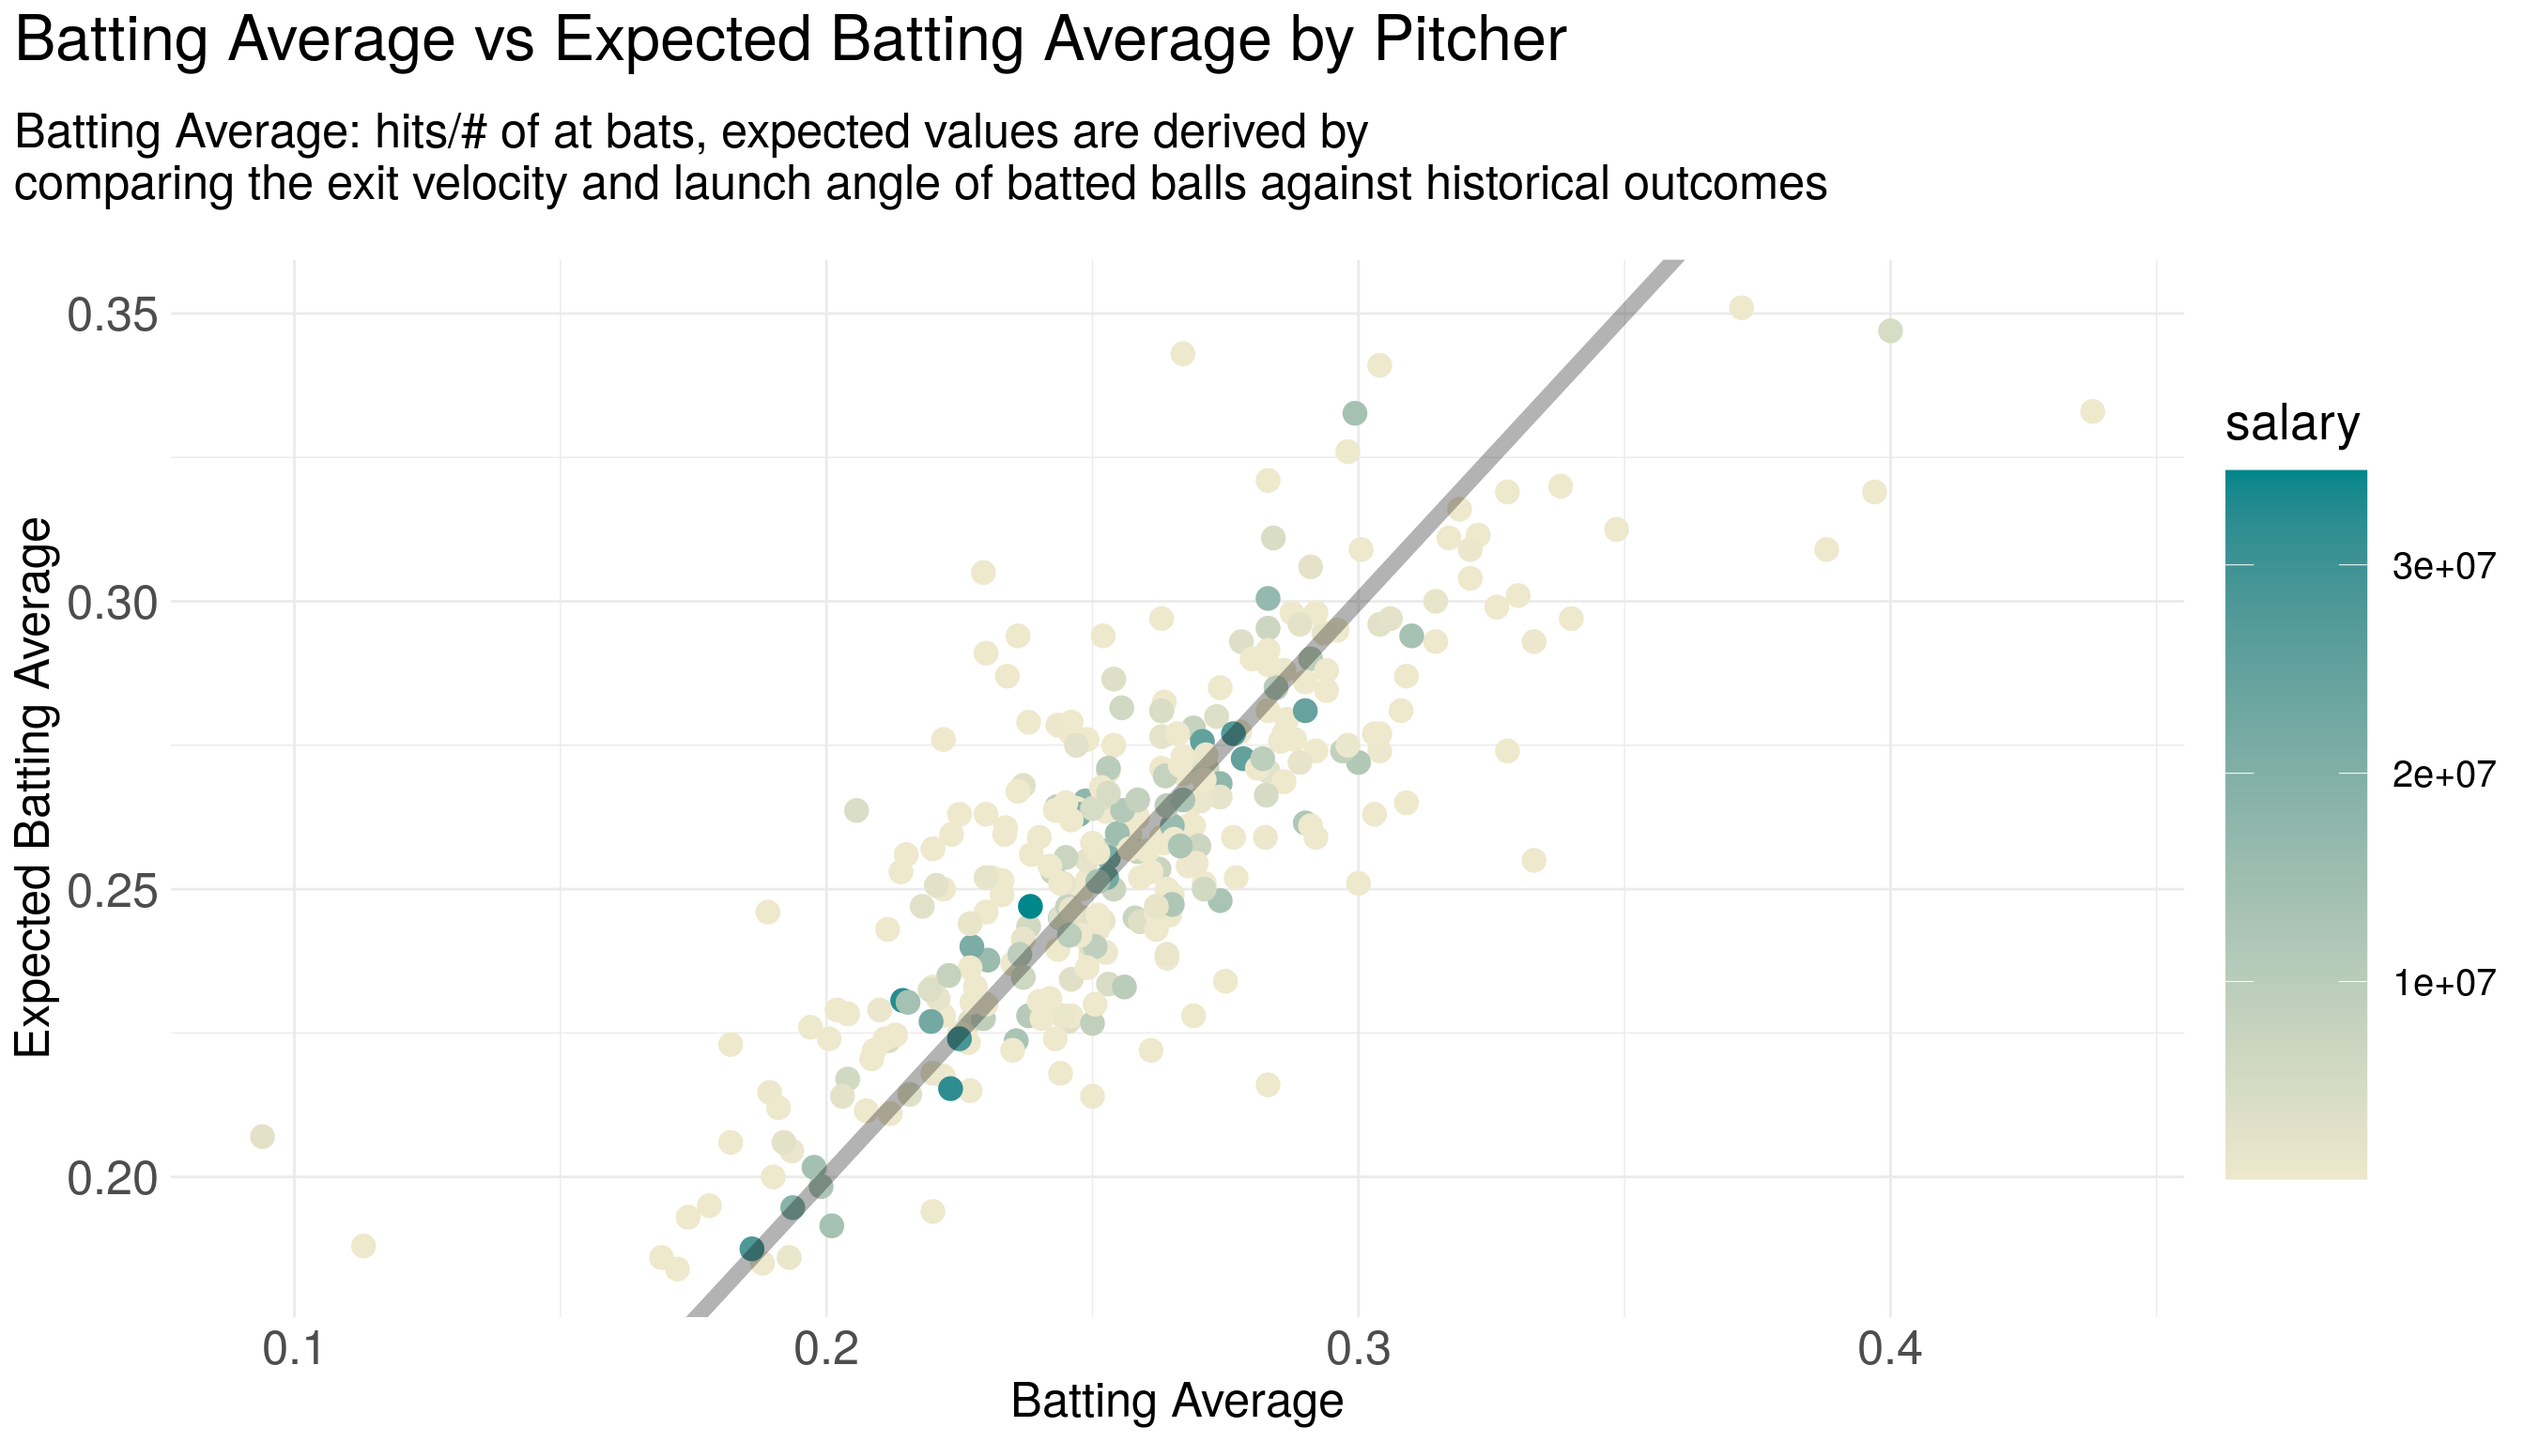
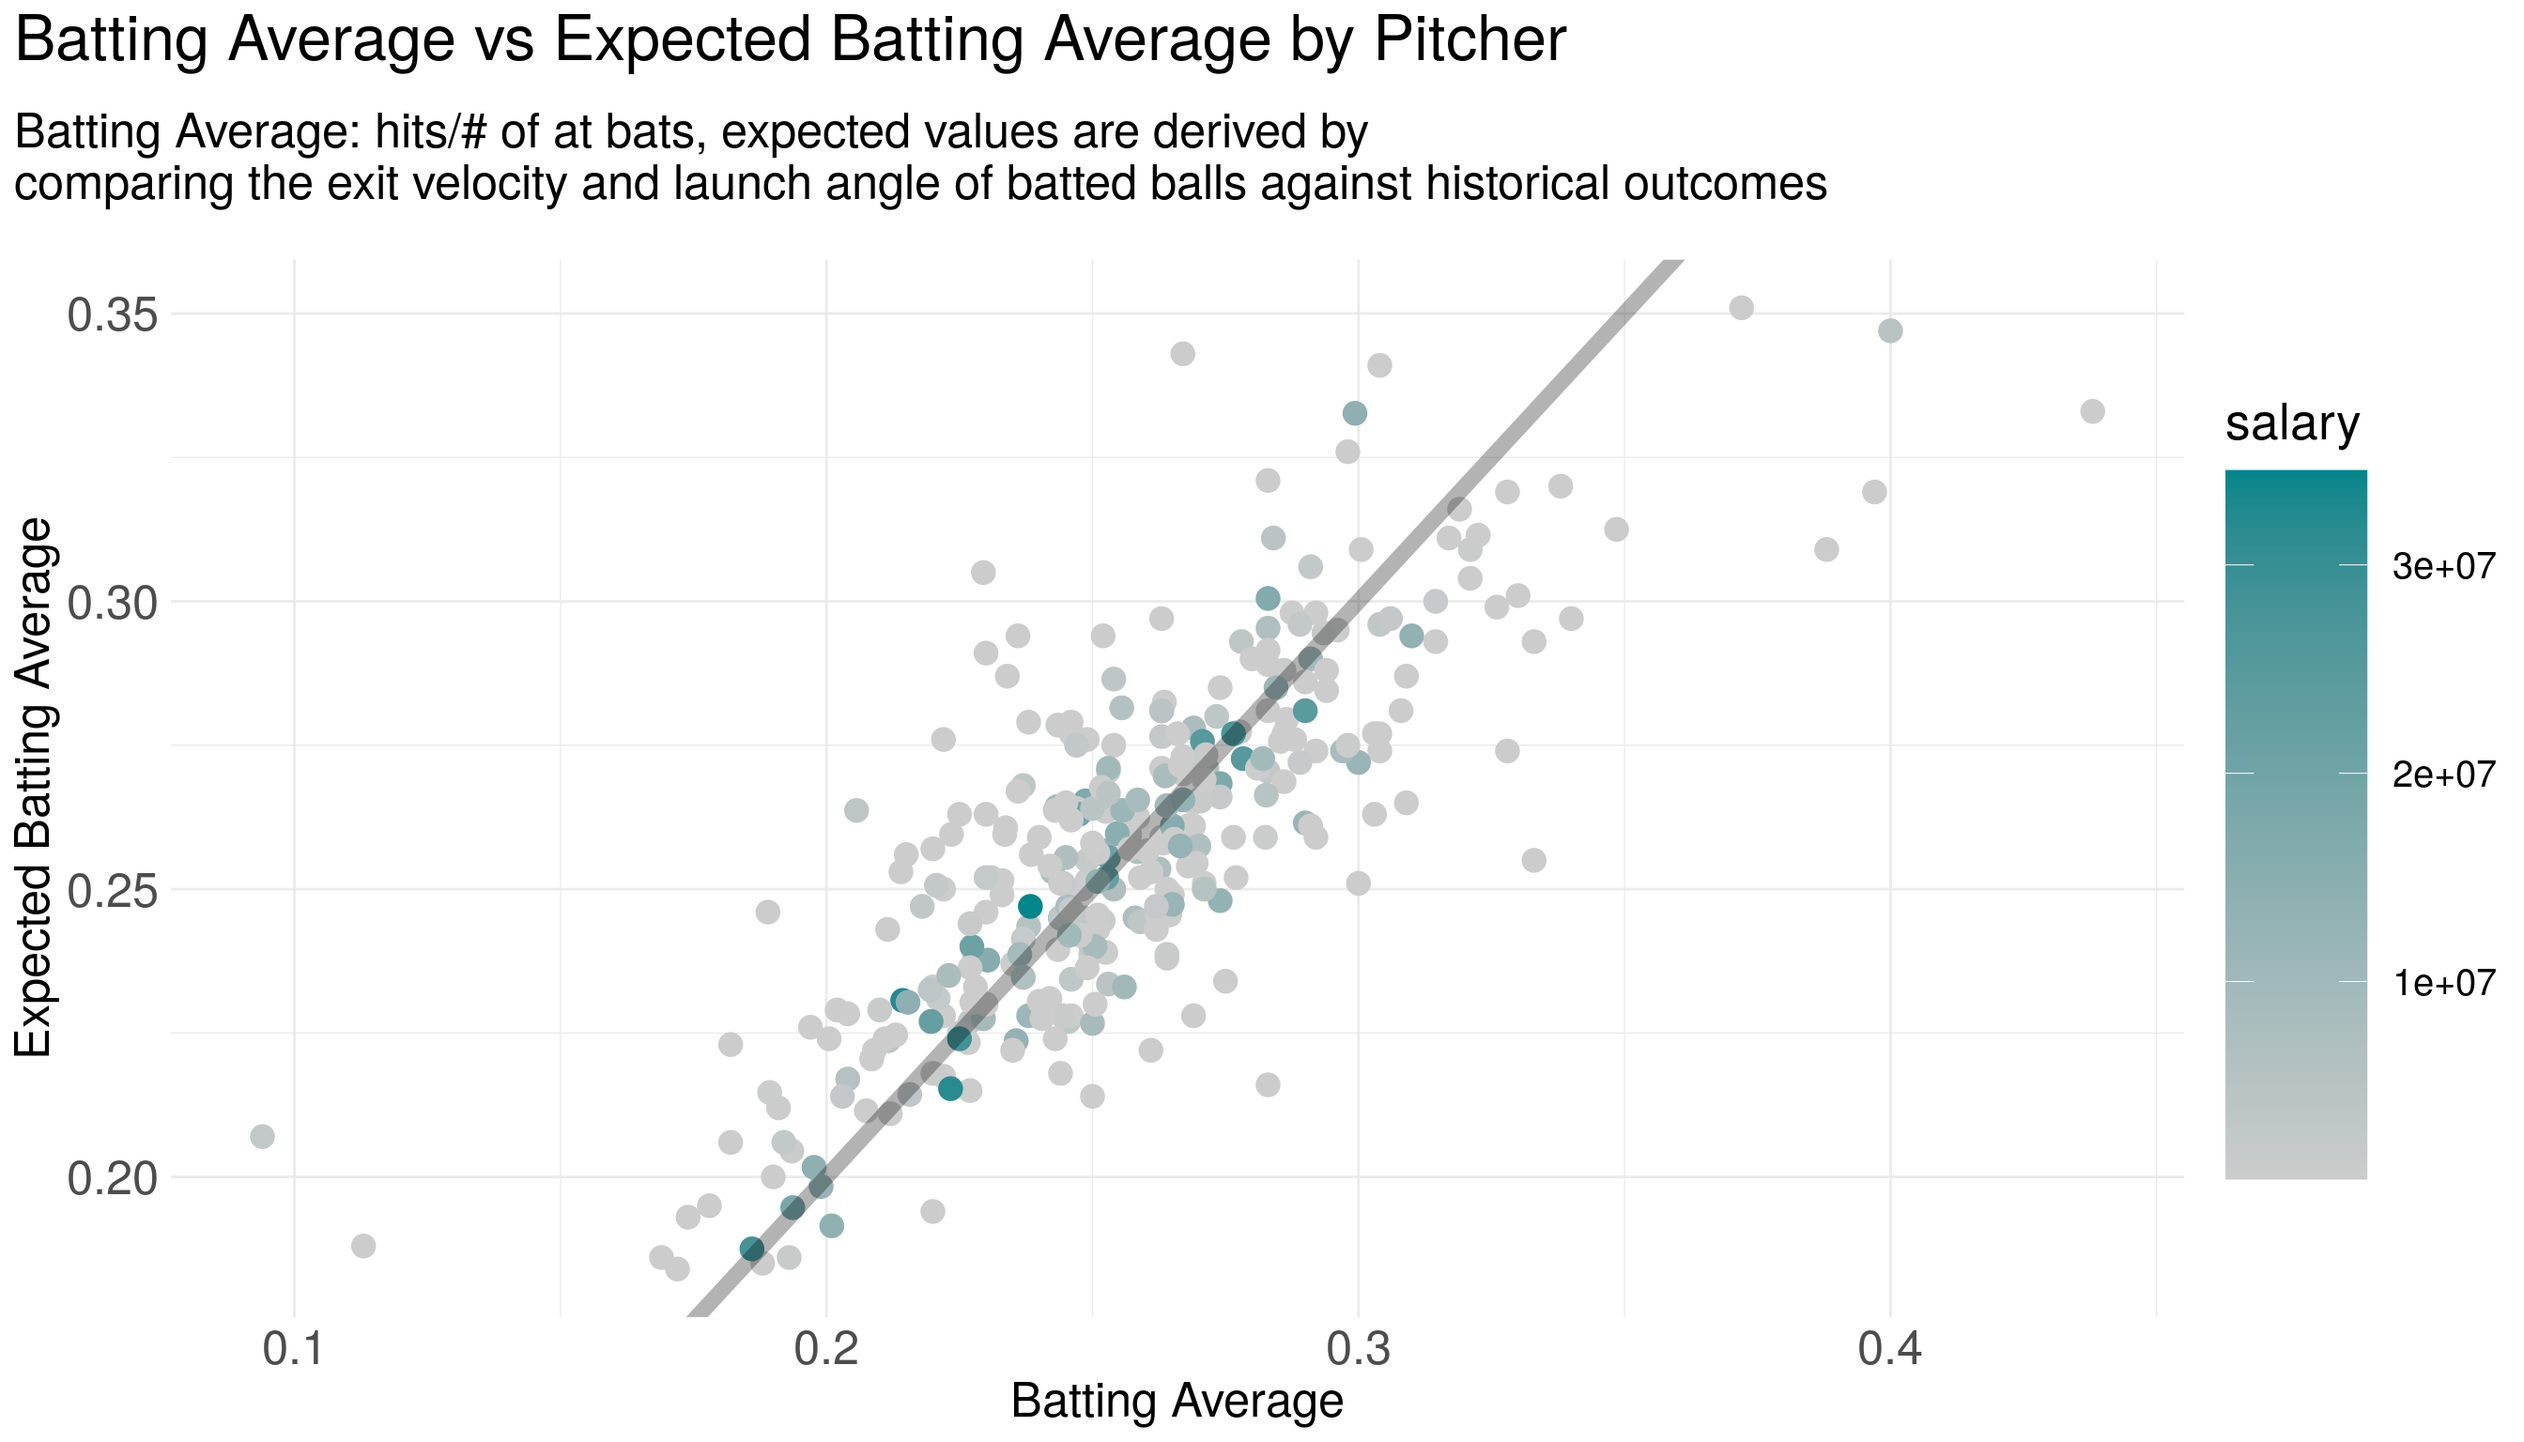
color tweak

diff --git a/README.md b/README.md
@@ -12,7 +12,7 @@ pitching statistics and salary data for individual starting pitchers.
 This dataset contains data from the 2018, 2019, and 2020 seasons.
 
 One exciting feature of the package is the inclusion of expected
-statistics:
+statistics\!
 
 <img src="man/figures/README-pitcher_woba-1-1.png" width="75%" style="display: block; margin: auto;" />
 
